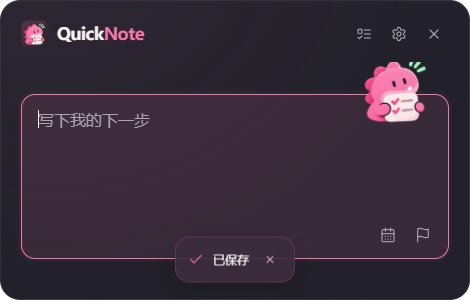
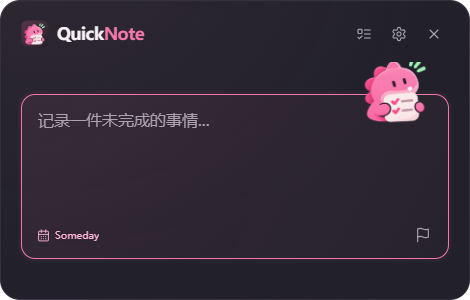
Simplify deadline groups and show all active tasks in Anytime

diff --git a/src/TimeWorkspace.tsx b/src/TimeWorkspace.tsx
@@ -1,10 +1,11 @@
-import{DeadlineIcon}from'./DeadlineIcon';import React,{useState}from'react';import{AnimatePresence,motion}from'framer-motion';import{Inbox,CalendarDays,CalendarCheck,CalendarRange,Layers,Check,Search,ChevronDown,ChevronLeft,ChevronRight,Pin,Pencil,Trash2,Flag,Copy,Plus,Clock}from'lucide-react';import{Note,day,sortNotes}from'./timeline';import{inView,planGroup,urgency,ddlSort,deadlineAt,shift}from'./deadline';
-export function TimeWorkspace({notes,filter,onFilter,onEdit,onToggle,onPin,onDelete,onCopy,editor,now,horizon=3,onDate,onNew}:{notes:Note[];filter:string;onFilter:(s:string)=>void;onEdit:(n:Note)=>void;onToggle:(id:string)=>void;onPin:(id:string)=>void;onDelete:(id:string)=>void;onCopy:(s:string)=>void;editor:React.ReactNode;now:Date;horizon:number;onDate:(d:string)=>void;onNew:()=>void}){const[q,Q]=useState(''),[scope,S]=useState('全部'),[sort,SO]=useState('asc'),[from,F]=useState(''),[to,T]=useState(''),[expanded,E]=useState(false),[selected,D]=useState(day()),[month,M]=useState(new Date(now.getFullYear(),now.getMonth(),1));const nav=[['收件箱','收件箱',Inbox],['今天','今天',CalendarCheck],['即将到来','即将到来',Clock],['任意时间','任意时间',Layers],['以后','以后',Layers],['日历','日历',CalendarDays],['Deadline','截止日期',Flag]]as const;const isDDL=filter==='Deadline';let list=notes.filter(n=>inView(n,filter,now)).filter(n=>`${n.text} ${n.dueDate||''} ${n.deadlineDate||''} ${n.notes||''}`.toLowerCase().includes(q.toLowerCase()));if(isDDL)list=list.filter(n=>scope==='全部'||scope==='已逾期'&&urgency(n,now,horizon)==='已逾期'||scope==='今天截止'&&!n.done&&n.deadlineDate===day(now)||scope==='未来3天'&&!n.done&&n.deadlineDate>day(now)&&n.deadlineDate<=shift(3,now)||scope==='未来7天'&&!n.done&&n.deadlineDate>day(now)&&n.deadlineDate<=shift(7,now)||scope==='范围'&&(!from||n.deadlineDate>=from)&&(!to||n.deadlineDate<=to));list.sort(isDDL?(a,b)=>sort==='desc'?(b.deadlineDate||'').localeCompare(a.deadlineDate||'')||Number(!!b.isPinned)-Number(!!a.isPinned)||((deadlineAt(b)||0)-(deadlineAt(a)||0))||b.created-a.created:sort==='pinned'?Number(!!b.isPinned)-Number(!!a.isPinned)||ddlSort(a,b):sort==='created'?b.created-a.created:ddlSort(a,b):sortNotes);
-function row(n:Note){const u=urgency(n,now,horizon);return <motion.div layout key={n.id} data-task={n.id} className={'task '+(n.done?'done ':'')+(n.isPinned?'pinned':'')} initial={{opacity:0,y:4}} animate={{opacity:1,y:0}} exit={{opacity:0,height:0}} onContextMenu={e=>{e.preventDefault();window.quicknote.call('context',n.id)}}><button className="check" title="切换完成" onClick={()=>onToggle(n.id)}>{n.done&&<Check/>}</button><div className="task-body" onDoubleClick={()=>onEdit(n)}><p>{n.isPinned&&<Pin className="pink"/>}{n.text}</p><small>{n.dueDate&&<span><CalendarDays/> {n.dueDate}{n.planPeriod==='evening'?' · 今晚':''}{n.dueDate<day(now)&&!n.done?' · 计划待重排':''}</span>}{n.deadlineDate&&<span className={u==='已逾期'?'deadline-overdue':'pink'}><DeadlineIcon/> {n.deadlineDate} {n.deadlineTime||''}{!n.done?' · '+(u==='已逾期'?'已逾期 '+Math.max(1,Math.ceil((now.getTime()-(deadlineAt(n)??now.getTime()))/86400000))+' 天':u):''}</span>}{n.reminderAt&&<span>提醒 {new Date(n.reminderAt).toLocaleString('zh-CN')}</span>}</small>{planGroup(n,now)==='逾期待安排'&&<button className="reschedule" onClick={()=>onEdit(n)}>重新安排</button>}</div><div className="actions"><button title="编辑任务与日期" onClick={()=>onEdit(n)}><Pencil/></button><button title="置顶" onClick={()=>onPin(n.id)}><Pin/></button><button title="复制" onClick={()=>onCopy(n.text)}><Copy/></button><button title="删除" onClick={()=>onDelete(n.id)}><Trash2/></button></div></motion.div>}
-const completed=isDDL?[]:notes.filter(n=>n.done&&n.text.toLowerCase().includes(q.toLowerCase())),active=list.filter(n=>!n.done);const titles=isDDL?['已逾期','今天截止','即将截止','稍后截止']:['逾期待安排','收件箱','今天','明天',...Array.from(new Set(active.filter(n=>['本周剩余','即将到来'].includes(planGroup(n,now))).map(n=>n.dueDate!))).sort(),'任意时间','以后'];const count=(v:string)=>notes.filter(n=>inView(n,v,now)&&!n.done).length;
+import{dateSummary}from'./date-summary';import{deadlineGroup,deadlineHeading,deadlineRemaining}from'./deadline-display';
+import{DeadlineIcon}from'./DeadlineIcon';import React,{useState}from'react';import{AnimatePresence,motion}from'framer-motion';import{Inbox,CalendarDays,CalendarCheck,Layers,Check,Search,ChevronDown,ChevronLeft,ChevronRight,Pin,Pencil,Trash2,Flag,Copy,Plus,Clock}from'lucide-react';import{Note,day,sortNotes}from'./timeline';import{inView,planGroup,urgency,ddlSort}from'./deadline';
+export function TimeWorkspace({notes,filter,onFilter,onEdit,onToggle,onPin,onDelete,onCopy,editor,now,horizon=3,onDate,onNew}:{notes:Note[];filter:string;onFilter:(s:string)=>void;onEdit:(n:Note)=>void;onToggle:(id:string)=>void;onPin:(id:string)=>void;onDelete:(id:string)=>void;onCopy:(s:string)=>void;editor:React.ReactNode;now:Date;horizon:number;onDate:(d:string)=>void;onNew:()=>void}){const[q,Q]=useState(''),[expanded,E]=useState(false),[selected,D]=useState(day()),[month,M]=useState(new Date(now.getFullYear(),now.getMonth(),1));const nav=[['收件箱','收件箱',Inbox],['今天','今天',CalendarCheck],['即将到来','即将到来',Clock],['任意时间','任意时间',Layers],['以后','以后',Layers],['日历','日历',CalendarDays],['Deadline','截止日期',Flag]]as const;const isDDL=filter==='Deadline';let list=notes.filter(n=>inView(n,filter,now)).filter(n=>`${n.text} ${n.dueDate||''} ${n.deadlineDate||''} ${n.notes||''}`.toLowerCase().includes(q.toLowerCase()));list.sort(isDDL?ddlSort:sortNotes);
+function row(n:Note){const u=urgency(n,now,horizon);return <motion.div layout key={n.id} data-task={n.id} className={'task '+(n.done?'done ':'')+(n.isPinned?'pinned':'')} initial={{opacity:0,y:4}} animate={{opacity:1,y:0}} exit={{opacity:0,height:0}} onContextMenu={e=>{e.preventDefault();window.quicknote.call('context',n.id)}}><button className="check" title="切换完成" onClick={()=>onToggle(n.id)}>{n.done&&<Check/>}</button><div className="task-body" onDoubleClick={()=>onEdit(n)}><p>{n.isPinned&&<Pin className="pink"/>}{n.text}</p>{!isDDL&&<small>{n.dueDate&&<span title={n.dueDate}><CalendarDays/> {dateSummary(n.dueDate,now)}{n.planPeriod==='evening'?' · 今晚':''}{n.dueDate<day(now)&&!n.done?' · 计划待重排':''}</span>}{n.deadlineDate&&!isDDL&&<span title={n.deadlineDate} className={u==='已逾期'?'deadline-overdue':'pink'}><DeadlineIcon/> {dateSummary(n.deadlineDate,now)} · {deadlineRemaining(n,now)}</span>}{n.reminderAt&&<span>提醒 {new Date(n.reminderAt).toLocaleString('zh-CN')}</span>}</small>}{!isDDL&&planGroup(n,now)==='逾期待安排'&&<button className="reschedule" onClick={()=>onEdit(n)}>重新安排</button>}</div>{isDDL&&n.deadlineDate&&<span title={dateSummary(n.deadlineDate,now)} className={'deadline-remaining '+(u==='已逾期'?'deadline-overdue':'')}>{deadlineRemaining(n,now)}</span>}<div className="actions"><button title="编辑任务与日期" onClick={()=>onEdit(n)}><Pencil/></button><button title="置顶" onClick={()=>onPin(n.id)}><Pin/></button><button title="复制" onClick={()=>onCopy(n.text)}><Copy/></button><button title="删除" onClick={()=>onDelete(n.id)}><Trash2/></button></div></motion.div>}
+const completed=isDDL?[]:notes.filter(n=>n.done&&n.text.toLowerCase().includes(q.toLowerCase())),active=list.filter(n=>!n.done);const titles=isDDL?['overdue',...Array.from(new Set(active.filter(n=>deadlineGroup(n,now)!=='overdue').map(n=>deadlineGroup(n,now)))).sort()]:['逾期待安排','收件箱','今天','明天',...Array.from(new Set(active.filter(n=>['本周剩余','即将到来'].includes(planGroup(n,now))).map(n=>n.dueDate!))).sort(),'任意时间','以后'];const count=(v:string)=>notes.filter(n=>inView(n,v,now)&&!n.done).length;
 const first=new Date(month.getFullYear(),month.getMonth(),1),start=new Date(first);start.setDate(1-((first.getDay()+6)%7));const dates=Array.from({length:42},(_,i)=>{const d=new Date(start);d.setDate(start.getDate()+i);return d});const calendarNotes=notes.filter(n=>(n.dueDate===selected||n.deadlineDate===selected)&&n.text.toLowerCase().includes(q.toLowerCase())).sort(sortNotes);
-return <div className="split tasks-layout"><nav>{nav.map(([key,label,Icon])=><button key={key} className={filter===key?'selected':''} onClick={()=>{onFilter(key);}}>{key==='Deadline'?<DeadlineIcon/>:<Icon/>}{label}<small>{key==='日历'?'':count(key)||''}</small></button>)}<img className="nav-mascot" src={isDDL?'./brand/deadline.png':'./brand/clock.png'} alt=""/></nav><div className="tasks-main"><div className="search"><Search/><input aria-label="搜索任务" placeholder={isDDL?'搜索截止任务、计划日期或截止日期':'搜索任务'} value={q} onChange={e=>Q(e.target.value)}/></div>{isDDL&&<div className="deadline-controls"><div className="date-chips">{['全部','已逾期','今天截止','未来3天','未来7天','范围'].map(v=><button key={v} className={scope===v?'active':''} onClick={()=>S(v)}>{v}</button>)}</div>{scope==='范围'&&<div className="range"><input aria-label="截止范围开始" type="date" value={from} onChange={e=>F(e.target.value)}/><span>至</span><input aria-label="截止范围结束" type="date" value={to} onChange={e=>T(e.target.value)}/></div>}<div className="date-chips">{[['asc','截止↑'],['desc','截止↓'],['pinned','重要优先'],['created','创建时间']].map(([k,l])=><button className={sort===k?'active':''} key={k} onClick={()=>SO(k)}>{l}</button>)}</div></div>}
-<section className="list">{filter==='日历'?<><div className="calendar-head"><button title="上个月" onClick={()=>M(new Date(month.getFullYear(),month.getMonth()-1,1))}><ChevronLeft/></button><b>{month.getFullYear()} 年 {month.getMonth()+1} 月</b><button title="下个月" onClick={()=>M(new Date(month.getFullYear(),month.getMonth()+1,1))}><ChevronRight/></button><button onClick={()=>{M(new Date(now.getFullYear(),now.getMonth(),1));D(day(now));onDate(day(now))}}>今天</button></div><div className="calendar-week">{['一','二','三','四','五','六','日'].map(s=><span key={s}>{s}</span>)}</div><div className="calendar-grid">{dates.map(d=>{const value=day(d),plan=notes.some(n=>n.dueDate===value),ddl=notes.some(n=>n.deadlineDate===value);return <button key={value} className={(selected===value?'selected ':'')+(d.getMonth()!==month.getMonth()?'other-month':'')} onClick={()=>{D(value);onDate(value)}}><span>{d.getDate()}</span><div>{plan&&<i className="plan-dot"/>}{ddl&&<DeadlineIcon/>}</div></button>})}</div><h3 className="calendar-day-title">{selected}<button onClick={()=>{onEdit({id:'',text:'',done:false,created:Date.now(),dueDate:selected})}}><Plus/>添加当天任务</button></h3>{calendarNotes.length?calendarNotes.map(row):<p className="muted">当天暂无记录，可直接在下方输入添加。</p>}</>:<>{titles.map(title=>{const items=active.filter(n=>(isDDL?urgency(n,now,horizon):/^\d{4}-/.test(title)?n.dueDate:planGroup(n,now))===title);return items.length?<section className={'time-group '+(title==='已逾期'?'deadline-overdue':'')} key={title}><h3><span className="node"/>{title}{!isDDL&&/^\d{4}-/.test(title)?' · '+new Date(title+'T12:00:00').toLocaleDateString('zh-CN',{weekday:'short'}):''}<small>{items.length}</small></h3><AnimatePresence initial={false}>{items.map(row)}</AnimatePresence></section>:null})}{!active.length&&filter!=='已完成'&&<div className="empty"><img src={isDDL?'./brand/deadline.png':'./brand/tasks.png'} alt=""/><p>{isDDL?'没有符合条件的截止任务':'暂无匹配任务'}</p></div>}{completed.length>0&&<><button className="completed-toggle" onClick={()=>E(!expanded)}>{expanded?<ChevronDown/>:<ChevronRight/>}{isDDL?'已完成的截止任务':'已完成'} · {completed.length}</button><AnimatePresence>{expanded&&completed.map(row)}</AnimatePresence></>}</>}</section><div className="composer">{editor}</div></div></div>}
+return <div className="split tasks-layout"><nav>{nav.map(([key,label,Icon])=><button key={key} className={filter===key?'selected':''} onClick={()=>{Q('');onFilter(key);}}>{key==='Deadline'?<DeadlineIcon/>:<Icon/>}{label}<small>{key==='日历'?'':count(key)||''}</small></button>)}<img className="nav-mascot" src={isDDL?'./brand/deadline.png':'./brand/clock.png'} alt=""/></nav><div className={"tasks-main "+(isDDL?'deadline-view':'')}>{!isDDL&&<div className="search"><Search/><input aria-label="搜索任务" placeholder="搜索任务" value={q} onChange={e=>Q(e.target.value)}/></div>}
+<section className="list">{filter==='日历'?<><div className="calendar-head"><button title="上个月" onClick={()=>M(new Date(month.getFullYear(),month.getMonth()-1,1))}><ChevronLeft/></button><b>{month.getFullYear()} 年 {month.getMonth()+1} 月</b><button title="下个月" onClick={()=>M(new Date(month.getFullYear(),month.getMonth()+1,1))}><ChevronRight/></button><button onClick={()=>{M(new Date(now.getFullYear(),now.getMonth(),1));D(day(now));onDate(day(now))}}>今天</button></div><div className="calendar-week">{['一','二','三','四','五','六','日'].map(s=><span key={s}>{s}</span>)}</div><div className="calendar-grid">{dates.map(d=>{const value=day(d),plan=notes.some(n=>n.dueDate===value),ddl=notes.some(n=>n.deadlineDate===value);return <button key={value} className={(selected===value?'selected ':'')+(d.getMonth()!==month.getMonth()?'other-month':'')} onClick={()=>{D(value);onDate(value)}}><span>{value===day(now)?<span className="today-star" aria-label="今天">★</span>:d.getDate()}</span><div>{plan&&<i className="plan-dot"/>}{ddl&&<DeadlineIcon/>}</div></button>})}</div><h3 className="calendar-day-title">{selected}<button onClick={()=>{onEdit({id:'',text:'',done:false,created:Date.now(),dueDate:selected})}}><Plus/>添加当天任务</button></h3>{calendarNotes.length?calendarNotes.map(row):<p className="muted">当天暂无记录，可直接在下方输入添加。</p>}</>:<>{filter==='任意时间'?<div className="anytime-list"><AnimatePresence initial={false}>{active.map(row)}</AnimatePresence></div>:titles.map(title=>{const items=active.filter(n=>(isDDL?deadlineGroup(n,now):/^\d{4}-/.test(title)?n.dueDate:planGroup(n,now))===title);return items.length?<section className={'time-group '+(isDDL?'deadline-group ':'')+(title==='overdue'?'deadline-overdue':'')} key={title}><h3><span className="node"/>{isDDL?deadlineHeading(title,now):title}{!isDDL&&/^\d{4}-/.test(title)?' · '+new Date(title+'T12:00:00').toLocaleDateString('zh-CN',{weekday:'short'}):''}<small>{items.length}</small></h3><AnimatePresence initial={false}>{items.map(row)}</AnimatePresence></section>:null})}{!active.length&&filter!=='已完成'&&<div className="empty"><img src={isDDL?'./brand/deadline.png':'./brand/tasks.png'} alt=""/><p>{isDDL?'没有符合条件的截止任务':'暂无匹配任务'}</p></div>}{completed.length>0&&<><button className="completed-toggle" onClick={()=>E(!expanded)}>{expanded?<ChevronDown/>:<ChevronRight/>}{isDDL?'已完成的截止任务':'已完成'} · {completed.length}</button><AnimatePresence>{expanded&&completed.map(row)}</AnimatePresence></>}</>}</section><div className="composer">{editor}</div></div></div>}
 
 
 

diff --git a/src/TaskEditor.tsx b/src/TaskEditor.tsx
@@ -1,5 +1,5 @@
 import{motion,AnimatePresence}from'framer-motion';import{dateSummary,daysLeft}from'./date-summary';import{MonthPicker}from'./MonthPicker';import React,{useState,useEffect}from'react';import{X,CalendarDays,Bell,Pin,ChevronDown}from'lucide-react';import{DeadlineIcon}from'./DeadlineIcon';import{Note,day,tomorrow}from'./timeline';import{shift,deadlineAt}from'./deadline';
 export type Dates={dueDate:string|null;schedule:string;planPeriod?:string;deadlineDate:string|null;deadlineTime:string|null;reminderAt:number|null;isPinned:boolean};export const emptyDates:Dates={dueDate:null,schedule:'inbox',planPeriod:'day',deadlineDate:null,deadlineTime:null,reminderAt:null,isPinned:false};
 const localInput=(t:number|null)=>{if(!t)return '';const d=new Date(t);return `${day(d)}T${String(d.getHours()).padStart(2,'0')}:${String(d.getMinutes()).padStart(2,'0')}`};
-export function DatesFields({value:v,onChange,compact=false}:{value:Dates;onChange:(v:Dates)=>void;compact?:boolean}){const[open,O]=useState<'plan'|'deadline'|null>(null),[more,M]=useState(false),[calendar,C]=useState(false);useEffect(()=>{if(compact)window.quicknote.call('picker-size',open&&(calendar||open==='deadline')?480:300).catch(()=>{});return()=>{if(compact)window.quicknote.call('picker-size',300).catch(()=>{})}},[open,calendar,compact]);const set=(p:Partial<Dates>)=>onChange({...v,...p});useEffect(()=>{if(!open)return;const close=(e:KeyboardEvent)=>{if(e.key==='Escape'){e.preventDefault();e.stopImmediatePropagation();O(null)}};window.addEventListener('keydown',close,true);return()=>window.removeEventListener('keydown',close,true)},[open]);return <div className={'dates-fields date-summary '+(compact?'compact':'')}><div className="selected-dates"><AnimatePresence initial={false}>{(v.dueDate||v.schedule==='later'||v.schedule==='anytime')&&<motion.button layout key="plan-label" className="date-label" title="安排计划日期" initial={{opacity:0,x:12}} animate={{opacity:1,x:0}} exit={{opacity:0,x:8}} onClick={()=>O('plan')}><CalendarDays/><span>{v.dueDate?(v.planPeriod==='evening'&&v.dueDate===day()?'This evening':dateSummary(v.dueDate)):v.schedule==='later'?'Someday':'Anytime'}</span></motion.button>}{v.deadlineDate&&<motion.button layout key="deadline-label" className="date-label" title="设置截止日期" initial={{opacity:0,x:12}} animate={{opacity:1,x:0}} exit={{opacity:0,x:8}} onClick={()=>O('deadline')}><DeadlineIcon/><span>{dateSummary(v.deadlineDate)} · {daysLeft(v.deadlineDate)}</span></motion.button>}</AnimatePresence></div><div className="date-chips date-entry-icons"><AnimatePresence initial={false}>{!v.dueDate&&v.schedule!=='later'&&v.schedule!=='anytime'&&<motion.button key="plan-icon" title="安排计划日期" initial={{opacity:0}} animate={{opacity:1}} exit={{opacity:0,scale:.85}} onClick={()=>O('plan')}><CalendarDays/></motion.button>}{!v.deadlineDate&&<motion.button key="deadline-icon" title="设置截止日期" initial={{opacity:0}} animate={{opacity:1}} exit={{opacity:0,scale:.85}} onClick={()=>O('deadline')}><DeadlineIcon/></motion.button>}</AnimatePresence>{!compact&&<button className={v.isPinned?'pink':''} onClick={()=>set({isPinned:!v.isPinned})}><Pin/></button>}</div>{open&&<div className="date-popover-shade" onClick={()=>O(null)}><section className="date-popover" role="dialog" aria-label={open==='plan'?'安排日期':'截止日期'} onClick={e=>e.stopPropagation()}><div className="plan-title"><b>{open==='plan'?'安排日期':'截止日期'}</b><button title="关闭日期浮层" onClick={()=>O(null)}><X/></button></div>{open==='plan'&&<div className="when-shortcuts"><button onClick={()=>{set({dueDate:day(),schedule:'inbox',planPeriod:'day'});O(null)}}>Today <span>今天</span></button><button onClick={()=>{set({dueDate:day(),schedule:'inbox',planPeriod:'evening'});O(null)}}>This evening <span>今晚</span></button></div>}{open==='plan'&&<button className="expand-calendar" aria-expanded={calendar} onClick={()=>C(!calendar)}><CalendarDays/>选择日期<ChevronDown/></button>}{(calendar||open==='deadline')&&<MonthPicker value={open==='plan'?v.dueDate:v.deadlineDate} onSelect={date=>{set(open==='plan'?{dueDate:date,schedule:'inbox',planPeriod:'day'}:{deadlineDate:date,...(compact?{deadlineTime:null}:{})});O(null)}}/>}{open==='plan'&&<button className="someday-shortcut" onClick={()=>{set({dueDate:null,schedule:'later',planPeriod:'day'});O(null)}}>Someday <span>以后再做</span></button>}{open==='plan'?(<div className="date-chips"><button onClick={()=>{set({dueDate:null,schedule:'inbox',planPeriod:'day'});O(null)}}>清除安排</button><button onClick={()=>{set({dueDate:null,schedule:'anytime',planPeriod:'day'});O(null)}}>任意时间</button><button onClick={()=>{set({dueDate:null,schedule:'later',planPeriod:'day'});O(null)}}>以后再做</button></div>):<>{!compact&&<><button className="popover-more" aria-expanded={more} onClick={()=>M(!more)}><ChevronDown/>更多选项{v.deadlineTime||v.reminderAt?' · 已设置':''}</button>{more&&<div className="popover-options"><label>截止时间（可选）<input aria-label="截止时间" type="time" disabled={!v.deadlineDate} value={v.deadlineTime||''} onChange={e=>set({deadlineTime:e.target.value||null})}/></label><label><Bell/>提醒<input aria-label="提醒时间" type="datetime-local" value={localInput(v.reminderAt)} onChange={e=>set({reminderAt:e.target.value?new Date(e.target.value).getTime():null})}/></label><div className="date-chips">{[['不提醒',null],['前1天',86400000],['前3小时',10800000],['前1小时',3600000]].map(([label,offset])=><button key={String(label)} disabled={offset!==null&&!v.deadlineDate} onClick={()=>set({reminderAt:offset===null?null:(deadlineAt(v as unknown as Note)??Date.now())-Number(offset)})}>{label}</button>)}</div>{v.reminderAt&&v.deadlineDate&&v.reminderAt>(deadlineAt(v as unknown as Note)??Infinity)&&<p className="warning">提醒晚于截止时间，请确认。</p>}</div>}</>}<button className="popover-clear" onClick={()=>{set({deadlineDate:null,deadlineTime:null});O(null)}}>清除截止日期</button></>}</section></div>}</div>}
+export function DatesFields({value:v,onChange,compact=false}:{value:Dates;onChange:(v:Dates)=>void;compact?:boolean}){const[open,O]=useState<'plan'|'deadline'|null>(null),[more,M]=useState(false),[calendar,C]=useState(false);useEffect(()=>{if(compact)window.quicknote.call('picker-size',open&&(calendar||open==='deadline')?480:300).catch(()=>{});return()=>{if(compact)window.quicknote.call('picker-size',300).catch(()=>{})}},[open,calendar,compact]);const set=(p:Partial<Dates>)=>onChange({...v,...p});useEffect(()=>{if(!open)return;const close=(e:KeyboardEvent)=>{if(e.key==='Escape'){e.preventDefault();e.stopImmediatePropagation();O(null)}};window.addEventListener('keydown',close,true);return()=>window.removeEventListener('keydown',close,true)},[open]);return <div className={'dates-fields date-summary '+(compact?'compact':'')}><div className="selected-dates"><AnimatePresence initial={false}>{(v.dueDate||v.schedule==='later'||v.schedule==='anytime')&&<motion.button layout key="plan-label" className="date-label" title="安排计划日期" initial={{opacity:0,x:12}} animate={{opacity:1,x:0}} exit={{opacity:0,x:8}} onClick={()=>O('plan')}><CalendarDays/><span>{v.dueDate?(v.planPeriod==='evening'&&v.dueDate===day()?'This evening':dateSummary(v.dueDate)):v.schedule==='later'?'Someday':'Anytime'}</span></motion.button>}{v.deadlineDate&&<motion.button layout key="deadline-label" className="date-label" title="设置截止日期" initial={{opacity:0,x:12}} animate={{opacity:1,x:0}} exit={{opacity:0,x:8}} onClick={()=>O('deadline')}><DeadlineIcon/><span>{dateSummary(v.deadlineDate)} · {daysLeft(v.deadlineDate)}</span></motion.button>}</AnimatePresence></div><div className="date-chips date-entry-icons"><AnimatePresence initial={false}>{!v.dueDate&&v.schedule!=='later'&&v.schedule!=='anytime'&&<motion.button key="plan-icon" title="安排计划日期" initial={{opacity:0}} animate={{opacity:1}} exit={{opacity:0,scale:.85}} onClick={()=>O('plan')}><CalendarDays/></motion.button>}{!v.deadlineDate&&<motion.button key="deadline-icon" title="设置截止日期" initial={{opacity:0}} animate={{opacity:1}} exit={{opacity:0,scale:.85}} onClick={()=>O('deadline')}><DeadlineIcon/></motion.button>}</AnimatePresence>{!compact&&<button className={v.isPinned?'pink':''} onClick={()=>set({isPinned:!v.isPinned})}><Pin/></button>}</div>{open&&<div className="date-popover-shade" onClick={()=>O(null)}><section className="date-popover" role="dialog" aria-label={open==='plan'?'安排日期':'截止日期'} onClick={e=>e.stopPropagation()}><div className="plan-title"><b>{open==='plan'?'安排日期':'截止日期'}</b><button title="关闭日期浮层" onClick={()=>O(null)}><X/></button></div>{open==='plan'&&<div className="when-shortcuts"><button onClick={()=>{set({dueDate:day(),schedule:'inbox',planPeriod:'day'});O(null)}}><span className="today-star" aria-label="Today">★</span><span>今天</span></button><button onClick={()=>{set({dueDate:day(),schedule:'inbox',planPeriod:'evening'});O(null)}}>This evening <span>今晚</span></button></div>}{open==='plan'&&<button className="expand-calendar" aria-expanded={calendar} onClick={()=>C(!calendar)}><CalendarDays/>选择日期<ChevronDown/></button>}{(calendar||open==='deadline')&&<MonthPicker value={open==='plan'?v.dueDate:v.deadlineDate} onSelect={date=>{set(open==='plan'?{dueDate:date,schedule:'inbox',planPeriod:'day'}:{deadlineDate:date,...(compact?{deadlineTime:null}:{})});O(null)}}/>}{open==='plan'&&<button className="someday-shortcut" onClick={()=>{set({dueDate:null,schedule:'later',planPeriod:'day'});O(null)}}>Someday <span>以后再做</span></button>}{open==='plan'?(<div className="date-chips"><button onClick={()=>{set({dueDate:null,schedule:'inbox',planPeriod:'day'});O(null)}}>清除安排</button><button onClick={()=>{set({dueDate:null,schedule:'anytime',planPeriod:'day'});O(null)}}>任意时间</button><button onClick={()=>{set({dueDate:null,schedule:'later',planPeriod:'day'});O(null)}}>以后再做</button></div>):<>{!compact&&<><button className="popover-more" aria-expanded={more} onClick={()=>M(!more)}><ChevronDown/>更多选项{v.deadlineTime||v.reminderAt?' · 已设置':''}</button>{more&&<div className="popover-options"><label>截止时间（可选）<input aria-label="截止时间" type="time" disabled={!v.deadlineDate} value={v.deadlineTime||''} onChange={e=>set({deadlineTime:e.target.value||null})}/></label><label><Bell/>提醒<input aria-label="提醒时间" type="datetime-local" value={localInput(v.reminderAt)} onChange={e=>set({reminderAt:e.target.value?new Date(e.target.value).getTime():null})}/></label><div className="date-chips">{[['不提醒',null],['前1天',86400000],['前3小时',10800000],['前1小时',3600000]].map(([label,offset])=><button key={String(label)} disabled={offset!==null&&!v.deadlineDate} onClick={()=>set({reminderAt:offset===null?null:(deadlineAt(v as unknown as Note)??Date.now())-Number(offset)})}>{label}</button>)}</div>{v.reminderAt&&v.deadlineDate&&v.reminderAt>(deadlineAt(v as unknown as Note)??Infinity)&&<p className="warning">提醒晚于截止时间，请确认。</p>}</div>}</>}<button className="popover-clear" onClick={()=>{set({deadlineDate:null,deadlineTime:null});O(null)}}>清除截止日期</button></>}</section></div>}</div>}
 export function TaskEditor({task,onSave,onClose}:{task:Note;onSave:(n:Note)=>Promise<boolean>;onClose:()=>void}){const[n,N]=useState(task),[busy,B]=useState(false),[err,E]=useState('');return <div className="editor-shade" onClick={onClose}><section className="task-editor" role="dialog" aria-label="任务编辑" onClick={e=>e.stopPropagation()}><div className="plan-title"><b>任务详情</b><button title="关闭编辑" onClick={onClose}><X/></button></div><textarea autoFocus aria-label="任务内容" value={n.text} onChange={e=>N({...n,text:e.target.value})}/><DatesFields value={{...emptyDates,...n}} onChange={v=>N({...n,...v})}/>{err&&<p className="error">{err}</p>}<button className="editor-save" disabled={busy||!n.text.trim()} onClick={async()=>{B(true);try{if(await onSave({...n,text:n.text.trim(),updatedAt:Date.now()}))onClose();else E('保存失败，请重试')}catch(e){E(String(e))}finally{B(false)}}}>{busy?'保存中…':'保存任务'}</button></section></div>}

diff --git a/src/time.css b/src/time.css
@@ -3,3 +3,6 @@
 .capture-input{min-height:165px;padding-bottom:48px}.capture-input>.date-summary{position:absolute;right:12px;bottom:8px;margin:0}.capture-input>textarea{min-height:90px}.when-shortcuts{display:flex;flex-direction:column;gap:4px;margin-bottom:12px}.when-shortcuts>button{display:flex;justify-content:space-between;padding:10px;color:var(--fg);font-size:13px}.when-shortcuts span,.someday-shortcut span{color:var(--muted);font-size:11px}.expand-calendar,.someday-shortcut{display:flex;align-items:center;gap:7px;width:100%;padding:10px;font-size:12px}.expand-calendar svg:last-child,.someday-shortcut span{margin-left:auto}.when-month .calendar-head{justify-content:space-between}.when-month .calendar-grid>button{height:29px;font-size:11px}.when-month .calendar-head>button:last-child{margin-left:0}.date-popover{max-height:calc(100vh - 24px);padding:14px}.capture .date-popover{max-height:calc(100vh - 24px)}
 .capture-input>.date-summary.compact>.date-chips>button{font-size:0;gap:0;padding:7px}.capture-input>.date-summary.compact>.date-chips>button svg{width:16px;height:16px}.capture-body>.capture-mascot{pointer-events:none}
 .date-summary{display:flex;justify-content:space-between;align-items:center;width:100%;min-height:30px;gap:6px}.capture-input>.date-summary{left:10px;right:10px;width:auto}.selected-dates{display:flex;flex-wrap:wrap;gap:2px;flex:1;min-width:0}.date-label{display:flex;gap:5px;align-items:center;color:var(--accent-soft);font-size:10px;max-width:100%;padding:5px}.date-label span{overflow:hidden;text-overflow:ellipsis;white-space:nowrap}.date-label svg{width:13px;height:13px}.date-entry-icons{margin-left:auto;flex-shrink:0}.task-capture{width:100%;position:relative;padding:10px 12px 42px;border-radius:12px;background:var(--card);min-height:100px}.task-capture>.date-summary{position:absolute;left:8px;right:8px;bottom:6px;width:auto;margin:0}.task-capture textarea{min-height:45px}.task-capture .date-entry-icons button{font-size:0}.composer{border-top:0;padding-top:0}.placeholder-setting{display:flex;flex-direction:column;gap:8px;font-size:12px;margin-top:24px}.placeholder-setting input{background:var(--card);border-radius:8px;padding:10px;font-size:12px}.placeholder-setting small{font-size:10px;color:var(--muted)}
+
+/* Compact deadline sections and local Today markers. */
+.deadline-view>.list{padding-top:12px}.deadline-group{border-left:0;margin-left:0;padding-left:0;padding-bottom:12px}.deadline-group h3{gap:8px;font-size:12px;color:var(--muted);padding-bottom:9px;border-bottom:1px solid var(--line);margin:10px 0 5px}.deadline-group.deadline-overdue h3{color:#dc718b}.deadline-group h3 .node{display:none}.deadline-group h3 small{margin-left:auto;background:transparent;color:var(--subtle);padding:0}.deadline-group .task{min-height:40px;align-items:flex-start;padding:10px 8px}.deadline-group .task-body{padding-right:6px}.deadline-remaining{font-size:10px;color:var(--muted);white-space:nowrap;line-height:19px;flex-shrink:0;font-variant-numeric:tabular-nums}.deadline-remaining.deadline-overdue{color:#dc718b}.deadline-group .task:hover .deadline-remaining,.deadline-group .task:focus-within .deadline-remaining{visibility:hidden}.today-star{color:var(--accent);font-size:16px;line-height:1}.when-shortcuts .today-star{color:var(--accent);font-size:19px}.anytime-list{padding-top:4px}

diff --git a/src/MonthPicker.tsx b/src/MonthPicker.tsx
@@ -1,2 +1,2 @@
 import React,{useState}from'react';import{ChevronLeft,ChevronRight}from'lucide-react';import{day}from'./timeline';
-export function MonthPicker({value,onSelect}:{value:string|null;onSelect:(d:string)=>void}){const[month,M]=useState(()=>{const d=value?new Date(value+'T12:00:00'):new Date();return new Date(d.getFullYear(),d.getMonth(),1)});const start=new Date(month);start.setDate(1-month.getDay());const days=Array.from({length:42},(_,i)=>{const d=new Date(start);d.setDate(start.getDate()+i);return d});return <div className="when-month"><div className="calendar-head"><button title="上个月" onClick={()=>M(new Date(month.getFullYear(),month.getMonth()-1,1))}><ChevronLeft/></button><b>{month.getFullYear()} 年 {month.getMonth()+1} 月</b><button title="下个月" onClick={()=>M(new Date(month.getFullYear(),month.getMonth()+1,1))}><ChevronRight/></button></div><div className="calendar-week">{['日','一','二','三','四','五','六'].map(d=><span key={d}>{d}</span>)}</div><div className="calendar-grid">{days.map(d=><button data-date={day(d)} key={day(d)} aria-label={day(d)} className={(day(d)===value?'selected ':'')+(d.getMonth()!==month.getMonth()?'other-month':'')} onClick={()=>onSelect(day(d))}>{d.getDate()}</button>)}</div></div>}
+export function MonthPicker({value,onSelect}:{value:string|null;onSelect:(d:string)=>void}){const[month,M]=useState(()=>{const d=value?new Date(value+'T12:00:00'):new Date();return new Date(d.getFullYear(),d.getMonth(),1)});const start=new Date(month);start.setDate(1-month.getDay());const days=Array.from({length:42},(_,i)=>{const d=new Date(start);d.setDate(start.getDate()+i);return d});return <div className="when-month"><div className="calendar-head"><button title="上个月" onClick={()=>M(new Date(month.getFullYear(),month.getMonth()-1,1))}><ChevronLeft/></button><b>{month.getFullYear()} 年 {month.getMonth()+1} 月</b><button title="下个月" onClick={()=>M(new Date(month.getFullYear(),month.getMonth()+1,1))}><ChevronRight/></button></div><div className="calendar-week">{['日','一','二','三','四','五','六'].map(d=><span key={d}>{d}</span>)}</div><div className="calendar-grid">{days.map(d=><button data-date={day(d)} key={day(d)} aria-label={day(d)} className={(day(d)===value?'selected ':'')+(d.getMonth()!==month.getMonth()?'other-month':'')} title={day(d)===day()?'Today · '+day(d):day(d)} onClick={()=>onSelect(day(d))}>{day(d)===day()?<span className="today-star" aria-label="今天">★</span>:d.getDate()}</button>)}</div></div>}

diff --git a/src/deadline.ts b/src/deadline.ts
@@ -3,6 +3,6 @@ export const shift=(offset:number,now=new Date())=>{const d=new Date(now);d.setD
 export function deadlineAt(n:Note){if(!n.deadlineDate)return null;if(n.deadlineTime)return new Date(n.deadlineDate+'T'+n.deadlineTime+':00').getTime();const d=new Date(n.deadlineDate+'T00:00:00');d.setDate(d.getDate()+1);return d.getTime()-1}
 export function urgency(n:Note,now=new Date(),horizon=3){if(!n.deadlineDate)return '';if(n.done)return '已完成的截止任务';if(now.getTime()>(deadlineAt(n)??Infinity))return '已逾期';if(n.deadlineDate===day(now))return '今天截止';return n.deadlineDate<=shift(horizon,now)?'即将截止':'稍后截止'}
 export function planGroup(n:Note,now=new Date()){if(n.done)return '已完成';if(!n.dueDate)return n.schedule==='later'?'以后':n.schedule==='anytime'?'任意时间':'收件箱';if(n.dueDate<day(now))return '逾期待安排';if(n.dueDate===day(now))return '今天';if(n.dueDate===tomorrow(now))return '明天';return n.dueDate<=weekEnd(now)?'本周剩余':'即将到来'}
-export function inView(n:Note,view:string,now=new Date()){if(view==='Deadline')return !!n.deadlineDate&&!n.done;if(view==='已完成')return n.done;if(n.done)return false;if(view==='全部')return true;if(view==='即将到来')return !!n.dueDate&&n.dueDate>day(now);if(view==='今天')return !!n.dueDate&&n.dueDate<=day(now);if(view==='本周')return !!n.dueDate&&n.dueDate>=day(now)&&n.dueDate<=weekEnd(now);return planGroup(n,now)===view}
+export function inView(n:Note,view:string,now=new Date()){if(view==='Deadline')return !!n.deadlineDate&&!n.done;if(view==='已完成')return n.done;if(n.done)return false;if(view==='全部'||view==='任意时间')return true;if(view==='即将到来')return !!n.dueDate&&n.dueDate>day(now);if(view==='今天')return !!n.dueDate&&n.dueDate<=day(now);if(view==='本周')return !!n.dueDate&&n.dueDate>=day(now)&&n.dueDate<=weekEnd(now);return planGroup(n,now)===view}
 export const ddlSort=(a:Note,b:Note)=>(a.deadlineDate||'9999').localeCompare(b.deadlineDate||'9999')||Number(!!b.isPinned)-Number(!!a.isPinned)||((deadlineAt(a)??Infinity)-(deadlineAt(b)??Infinity))||(a.dueDate||'9999').localeCompare(b.dueDate||'9999')||b.created-a.created||a.id.localeCompare(b.id);
 

diff --git a/src/deadline-display.ts b/src/deadline-display.ts
@@ -1,0 +1,20 @@
+import {Note, day} from './timeline';
+import {deadlineAt} from './deadline';
+
+export function deadlineGroup(note:Note, now=new Date()) {
+  return (deadlineAt(note)??Infinity)<now.getTime() ? 'overdue' : note.deadlineDate!.slice(0,7);
+}
+export function deadlineHeading(key:string, now=new Date()) {
+  if(key==='overdue')return '逾期';
+  const d=new Date(key+'-01T12:00:00');
+  return d.toLocaleDateString('en-US',{month:'long',...(d.getFullYear()!==now.getFullYear()?{year:'numeric'}:{})});
+}
+export function deadlineRemaining(note:Note, now=new Date()) {
+  const ordinal=(value:string)=>{const [y,m,d]=value.split('-').map(Number);return Date.UTC(y,m-1,d)};
+  const diff=Math.round((ordinal(note.deadlineDate!)-ordinal(day(now)))/86400000);
+  if((deadlineAt(note)??Infinity)<now.getTime()) {
+    const past=Math.max(1,-diff);
+    return `${past} ${past===1?'day':'days'} past`;
+  }
+  return `${diff} ${diff===1?'day':'days'} left`;
+}

diff --git a/README.md b/README.md
@@ -1,6 +1,6 @@
 # QuickNote
 
-Windows 本地快速记录与时间待办工具。Electron + React + TypeScript + Vite，无账号和云同步。当前版本 **4.3.0**。
+Windows 本地快速记录与时间待办工具。Electron + React + TypeScript + Vite，无账号和云同步。当前版本 **4.3.1**。
 
 ![Quick Capture](docs/images/capture.png)
 
@@ -9,11 +9,11 @@ Windows 本地快速记录与时间待办工具。Electron + React + TypeScript 
 - Ctrl+Shift+Space 唤出快速记录，Ctrl+Shift+G 打开待办；再次按相同快捷键隐藏，旧配置保留。
 - Enter 保存、Shift+Enter 换行，输入法组合保护，草稿与日期选项本地保存。
 - 首页输入框右下角日历/旗帜打开 When 与 Deadline。When 支持今天、今晚、展开月历和Someday（以后再做，不设日期），Deadline 首页只选日期。
-- 首页移除数量标签与最近记录；待办分类为收件箱、今天、即将到来、任意时间、以后、日历、截止日期。即将到来涵盖所有未来日期。
-- 待办 Enter 或加号打开完整任务详情，默认继承当前分类日期。
+- 首页移除数量标签与最近记录；待办分类为收件箱、今天、即将到来、任意时间、以后、日历、截止日期。即将到来涵盖所有未来日期；任意时间平铺汇总全部未完成任务，包含已安排日期及以后事项。
+- 待办底部 Enter 直接保存，默认继承当前分类日期；已有任务可打开详情编辑。
 - 计划日期与截止日期独立；时间轴、Deadline 与月历引用同一条任务。
-- 左侧 Deadline 集中查看截止任务，支持紧急程度分组、范围筛选、搜索和排序。
-- 月历分别标记计划日期与截止日期，支持按日新建。
+- 左侧 Deadline 集中查看未完成截止任务：移除顶部选项，按逾期与英文月份分组并横线分隔，右侧只显示 days left / days past。
+- 月历分别标记计划日期与截止日期，支持按日新建；当天日期使用粉色星标。
 - 编辑、复制、置顶、完成/删除、按钮与 Ctrl+Z 单层撤销。
 - 深色、浅色、跟随系统主题；托盘常驻、登录启动、实际快捷键状态。
 - 应用运行时提供 Windows 提醒，退出后不提醒；系统通知实际显示受 Windows 设置影响。
@@ -29,7 +29,7 @@ npm run build
 npm run dist
 ```
 
-NSIS 输出 release/4.3.0，安装包与 node_modules/dist 均不提交 Git。未配置代码签名。图标构建：node assets/build4.cjs。
+NSIS 输出 release/4.3.1，安装包与 node_modules/dist 均不提交 Git。未配置代码签名。图标构建：node assets/build4.cjs。
 
 ## 本地数据
 
@@ -52,9 +52,15 @@ node_modules/.bin/electron tests/schedule-smoke.cjs
 
 ## 版本管理
 
-main 分支保留可构建版本，版本标签与 package.json 对应。4.1.1 为 Git 初始基线，4.3.0 为紧凑日期浮层与旗帜统一。远端：https://github.com/Yfanx/QuickNote 。
+main 分支保留可构建版本，版本标签与 package.json 对应。4.1.1 为 Git 初始基线，4.3.1 为简化截止列表、任意时间汇总与 Today 星标。远端：https://github.com/Yfanx/QuickNote 。
 
 全功能自动化回归：npm test。范围与未实机验收项见 [测试报告](docs/TEST_REPORT.md)。
 
 ## 日期标签与输入设置
 选择计划或截止日期后，标签动态移到输入框左下角，对应右侧图标淡出。日期显示 Today / Tomorrow / 本周星期 / 跨周星期与英文月份缩写；截止日期附自然日剩余天数，逾期显示 overdue。点击左侧标签可修改或清除。待办底部与主页相同，Enter 直接保存，无加号；保留所在分类/日历默认日期。设置→外观可修改快速记录占位文字，离开输入框即保存，主页与待办同步。GitHub Release 提供 Windows 安装包下载。
+
+## 简化截止列表（4.3.1）
+
+![截止日期列表](docs/images/deadline-list.png)
+
+任务日期使用 Today / Tomorrow / 本周星期等摘要，完整日期可通过悬停或任务详情查看。Deadline 按本地自然日计算剩余及逾期天数，保留旧数据与高级时间设置；本次仅改变展示。跨年月份附年份。

diff --git a/docs/TEST_REPORT.md b/docs/TEST_REPORT.md
@@ -1,15 +1,13 @@
-# QuickNote 4.3.0 回归测试
+# QuickNote 4.3.1 回归测试
 
-日期：2026-11-08。使用 npm run build 和 node tests/run.cjs。独立临时 userData，不写入真实用户记录。
+日期：2026-11-08。构建：npm run build。回归：npm test。全部使用独立临时 userData，不修改真实记录。
 
-- 8项单元测试通过：旧数据/草稿持久化、备份保留与校验、本地日期跨周跨年、计划与截止独立、日期/时间截止边界、迁移、提醒去重、Upcoming/Anytime分类。
-- 7组 Electron 实际运行检查通过：when-smoke、features-smoke、schedule-smoke、deadline-smoke、popover-smoke、restore4、check-menu。
-- 新交互：今天/今晚、展开月历/月切换、Someday无日期归类、首页仅日期DDL、无数量/最近记录、七分类、远期任务、分类新建日期保留。
-- 原有功能：快捷键注册与回调切换、焦点、三主题、开机启动API状态（测试适配器）、快捷键拒绝冲突、中文字符串与模拟composition、空记录/重复保护、Esc/失焦隐藏、复制（测试剪贴板适配器）、置顶、搜索、JSON导出/导入合并及备份、确认恢复/取消恢复、任务编辑/完成撤销。
-- 通知调度使用替身验证，没有向用户发送测试通知；开机启动使用适配器避免改系统登录项。
+- 11 项 Node 单元测试：旧数据迁移、草稿/原子存储、备份保留及恢复校验、计划/截止独立、截止时刻边界、提醒去重、本地日期跨周跨年、日期摘要、月份分组、自然日倒计时、任意时间汇总。
+- 9 组 Electron 实际运行检查：deadline-simple、date-labels、when、features、schedule、deadline、popover、restore4、check-menu。
+- 新版检查：Deadline 无顶部搜索/筛选/排序，逾期置首、月份横线分组、右侧倒计时、无重复日期元信息；任意时间平铺显示全部未完成任务（包括以后和已有计划）；Today 星标出现在日期选择/月历，选中后仍写入正确日期；完成后排除并保留原记录。
+- 原有检查：快速记录/连续输入、组合输入保护、草稿/自定义占位文字持久化、右下角日期浮层和左侧标签、分类默认日期、全局快捷键注册与回调切换、焦点、Esc/失焦、三主题、搜索、复制、置顶、编辑、完成/删除撤销、导入导出与确认恢复、托盘菜单图标。
+- 新增的窗口测试显式销毁测试窗口后退出，避免收尾阶段的窗口关闭拦截影响后续测试；输入测试等待 React 接收文本后再发送 Enter。
 
-未人工验收：物理全局按键跨应用、真实中文输入法、多显示器/高DPI、开机登录、系统通知实际送达、安装程序完整安装。不能把自动化覆盖等同于这些硬件/系统验收。
+通知使用替身；开机启动和剪贴板部分检查使用适配器，避免改动系统配置。未人工验收：物理全局按键跨应用、真实中文输入法、多显示器/高 DPI、开机登录、通知实际送达、安装程序完整安装、长期资源占用。不能将自动化覆盖等同这些实机验收。
 
-4.3.0：验证 Someday 清除计划日期并进入以后；验证首页恢复为300高度，月历展开临时480、关闭恢复；主页多余底部按钮已移除。
-
-4.3.0增加日期摘要/自然日倒计时单元测试与日期标签动画、右侧图标退场、待办直接输入、自定义占位持久化运行检查。日历默认日期回归已覆盖。当前9项单元测试、8组Electron运行检查。
+![简化 Deadline](images/deadline-list.png)
